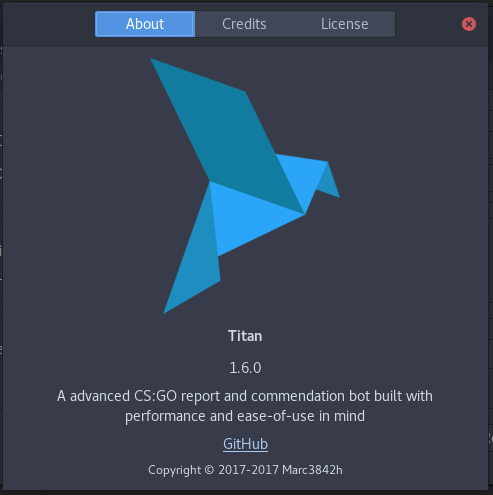
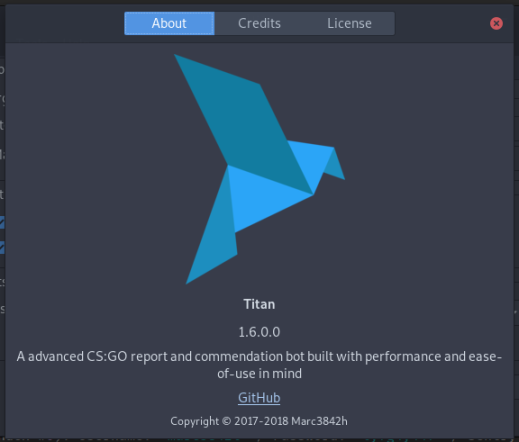
Add @matnguyen to the list of documenters and update About UI image

diff --git a/Titan/UI/About/AboutUI.cs b/Titan/UI/About/AboutUI.cs
@@ -15,7 +15,7 @@ namespace Titan.UI.About
             
             Copyright = "Copyright \u00A9 2017-" + DateTime.Now.Year + " Marc3842h";
             Developers = new [] { "Marc3842h", "raspbianlike", "ra1N1336", "bananasss00" };
-            Documenters = new[] { "Marc3842h", "ikfe", "BoberMod", "ZeroMemes" };
+            Documenters = new[] { "Marc3842h", "ikfe", "BoberMod", "ZeroMemes", "matnguyen" };
             Logo = Titan.Instance.UIManager.SharedResources.TITAN_ICON;
             License = _license;
             
